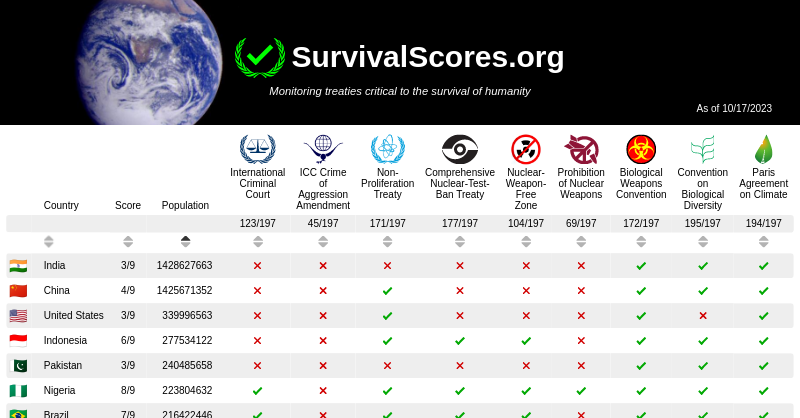
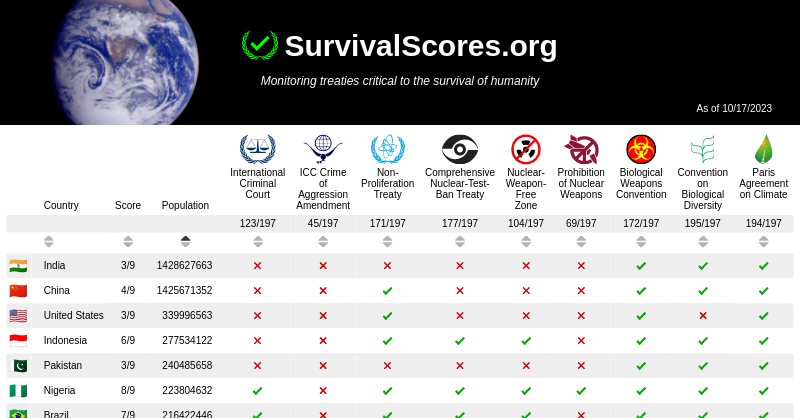
Deploying to gh-pages from @ arthuredelstein/survivalscores.org@5f6d7124e0be429663d0e412a8590b24109b398e 🚀

Changed region(s): [[0.0625, 0.0, 0.7188, 0.311]]

diff --git a/index.html b/index.html
@@ -187,7 +187,7 @@ thead {
   padding-right: 0.6em;
 }
 h3 {
-  font-size: 18px;
+  font-size: calc(0.4 * max(min(4vw, 48px), 36px));
   font-style: italic;
   font-weight: normal;
 }
@@ -200,7 +200,7 @@ h3 {
   padding-left: 10px;
   text-align: center;
   background-image: url("./images/PIA00076~small.jpg");
-  background-position-x: -0px;
+  background-position-x: calc(-550px + 40vw);
   background-position-y: center;
   background-size: 450px;
   background-repeat: no-repeat;
@@ -212,7 +212,7 @@ h3 {
   position: fixed;
 }
 h1 {
-  font-size: 48px;
+  font-size: max(min(4vw, 48px), 36px);
   margin-bottom: 8px;
   color:white;
 }
@@ -226,10 +226,10 @@ h1 {
 }
 #logo {
   padding-right: 10px;
-  transform: translate(0px, 18px);
-  width: 80px;
+  transform: translate(0px, calc(0.15 * max(min(4vw, 48px), 36px)));
+  width: calc(1.2 * max(min(4vw, 48px), 36px));
 }</style>
-  <script>const dataDate = new Date('Tue Oct 17 2023 00:45:50 GMT+0000 (Coordinated Universal Time)');
+  <script>const dataDate = new Date('Tue Oct 17 2023 02:08:05 GMT+0000 (Coordinated Universal Time)');
 
 // Initially will be sorted by population
 let state = { sortedColumn: 1, ascending: true };
@@ -310,7 +310,7 @@ window.addEventListener("DOMContentLoaded", (e) => {
       <li><a href="https://treaties.un.org/Pages/ParticipationStatus.aspx">Multilateral Treaties Deposited with the Secretary-General</a>, United Nations, New York</li>
       <li><a href="https://data.un.org/">UNdata</a>, United Nations Statistics Division</li>
     </ul>
-    Data retrieved at 2023-10-17T00:45:50.986Z
+    Data retrieved at 2023-10-17T02:08:05.207Z
   </div>
 </div>
  </body>
